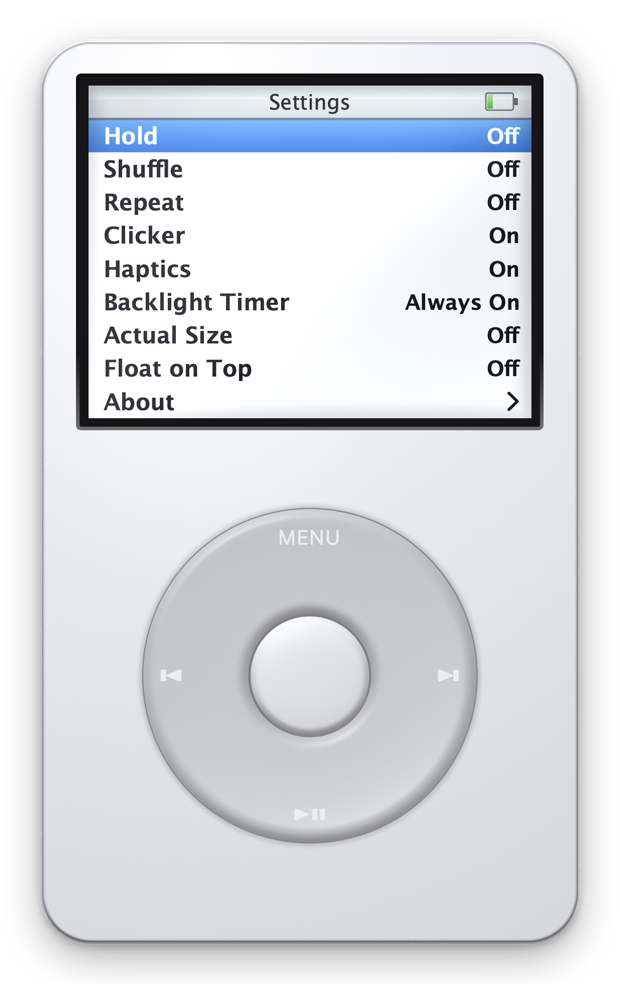
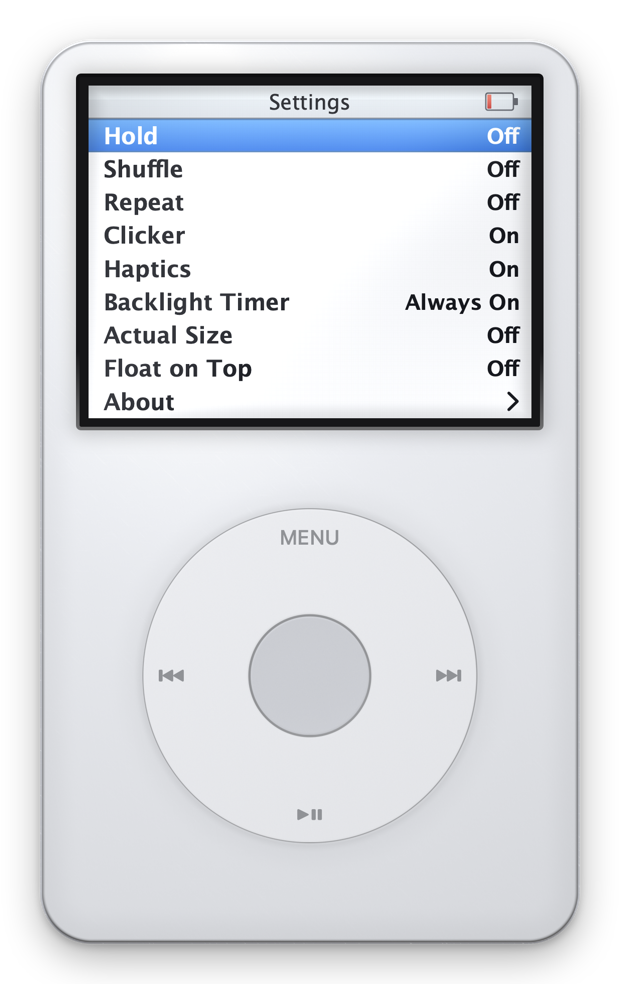
Match the wheel to the hardware: a flat white disc, printed grey
Checked against a photograph of the real thing and iterated until the
crops agreed. The wheel loses its dish and dome for a flat white disc
that meets the body and the button at crisp hairline seams instead of
shaded gutters. The printed marks go grey on white — MENU at medium
weight and near-default tracking, and the transport glyphs become the
double-triangle-and-bar forms that are actually silk-screened on the
wheel; the single-triangle SF Symbols were the wrong marks entirely.
The centre button turns bare-metal silver, gently concave, a step
darker than the disc around it. Site images regenerated.

diff --git a/Sources/Clickwheel/UI/Body/ClickWheelView.swift b/Sources/Clickwheel/UI/Body/ClickWheelView.swift
@@ -153,26 +153,26 @@ struct ClickWheelView: View {
         // MENU's cap height is 0.044 of the wheel diameter, and it is a light
         // grotesque — not semibold.
         let menuCap = diameter * 0.044
-        let glyph = diameter * 0.055
+        let glyph = diameter * 0.048
 
         return ZStack {
+            // Medium weight and near-default tracking, matching the printed
+            // MENU on the Classic's wheel.
             Text(verbatim: "MENU")
-                .font(.system(size: menuCap / 0.72, weight: .regular))
-                .tracking(menuCap * 0.10)
+                .font(.system(size: menuCap / 0.72, weight: .medium))
+                .tracking(menuCap * 0.04)
                 .offset(y: -radius)
-            // The real transport glyphs are wider and flatter than the SF
-            // Symbols defaults — roughly 1.8:1 rather than 1.24:1.
-            Image(systemName: "forward.end.fill")
+            // Double-triangle-and-bar marks — `forward.end.fill` has a single
+            // triangle, which is not what is printed on the wheel.
+            Image(systemName: "forward.end.alt.fill")
                 .font(.system(size: glyph))
-                .scaleEffect(x: 1.25, y: 0.86)
                 .offset(x: radius)
             Image(systemName: "playpause.fill")
                 .font(.system(size: glyph))
-                .scaleEffect(x: 1.18, y: 0.86)
+                .scaleEffect(x: 1.08, y: 0.92)
                 .offset(y: radius)
-            Image(systemName: "backward.end.fill")
+            Image(systemName: "backward.end.alt.fill")
                 .font(.system(size: glyph))
-                .scaleEffect(x: 1.25, y: 0.86)
                 .offset(x: -radius)
         }
         .foregroundStyle(Palette.wheelLabel)

diff --git a/Sources/Clickwheel/Theme/Palette.swift b/Sources/Clickwheel/Theme/Palette.swift
@@ -12,20 +12,17 @@ enum Palette {
     static let shellShadow = Color(red: 0.741, green: 0.753, blue: 0.773)
     static let shellHighlight = Color.white
 
-    /// The wheel is a shade darker and greyer than the body, with a faint
-    /// warm cast from its slightly textured finish.
-    static let wheelBase = Color(red: 0.878, green: 0.878, blue: 0.882)
-    static let wheelRim = Color(red: 0.784, green: 0.788, blue: 0.800)
+    /// Classic-style wheel: a flat matte white disc, a half-step below the
+    /// shell's clearcoat white.
+    static let wheelBase = Color(red: 0.948, green: 0.950, blue: 0.954)
+    static let wheelRim = Color(red: 0.850, green: 0.854, blue: 0.862)
 
-    /// Labels are printed *lighter* than the wheel, not darker.
-    ///
-    /// On the white 5G the wheel is a grey membrane (measured ~194 luminance
-    /// against 228 for the body) carrying near-white glyphs at 230–240 — a
-    /// soft, low-contrast, light-on-grey treatment. Dark glyphs on a pale
-    /// wheel is the iPod 4G / iPod photo look, not this one.
-    static let wheelLabel = Color(red: 0.929, green: 0.933, blue: 0.941)
+    /// Grey glyphs printed on the white wheel — the Classic treatment, where
+    /// MENU and the transport marks sit a few steps down from the disc.
+    static let wheelLabel = Color(red: 0.564, green: 0.572, blue: 0.588)
 
-    static let centreButton = Color(red: 0.906, green: 0.906, blue: 0.910)
+    /// Bare-metal silver, clearly darker than the wheel around it.
+    static let centreButton = Color(red: 0.784, green: 0.792, blue: 0.808)
     static let bezel = Color(red: 0.086, green: 0.086, blue: 0.094)
 
     // MARK: - Screen
